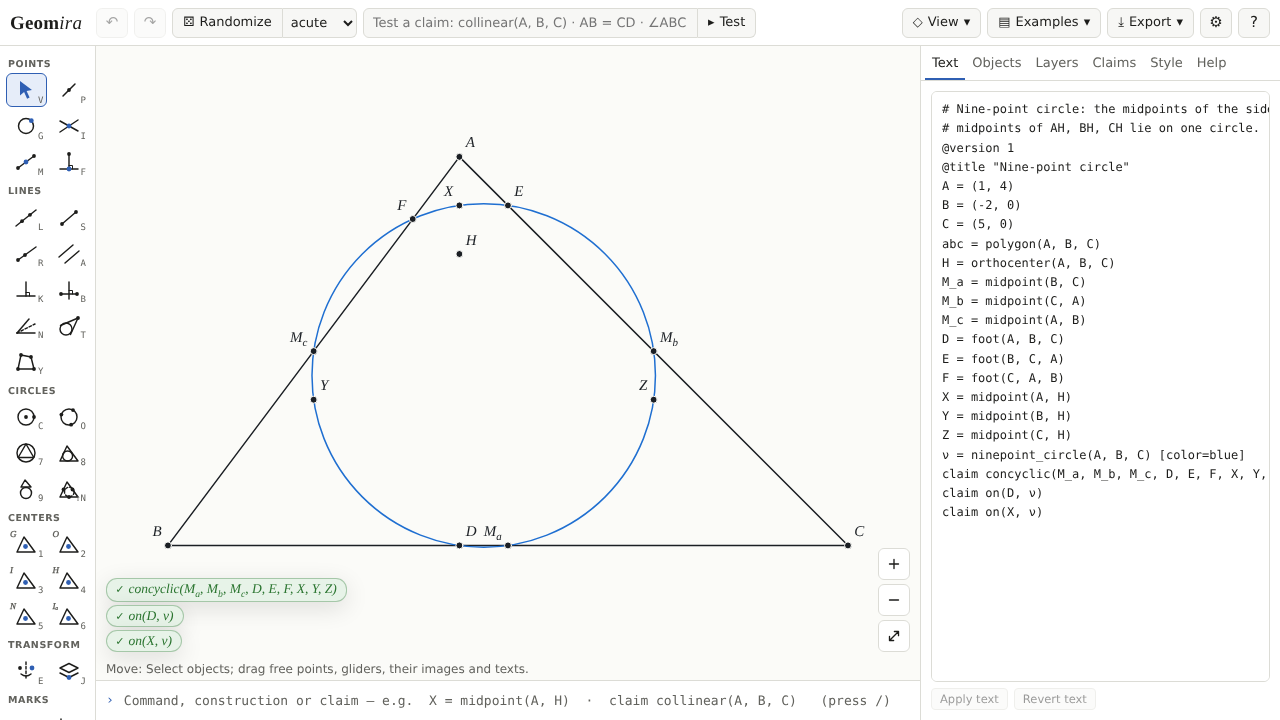
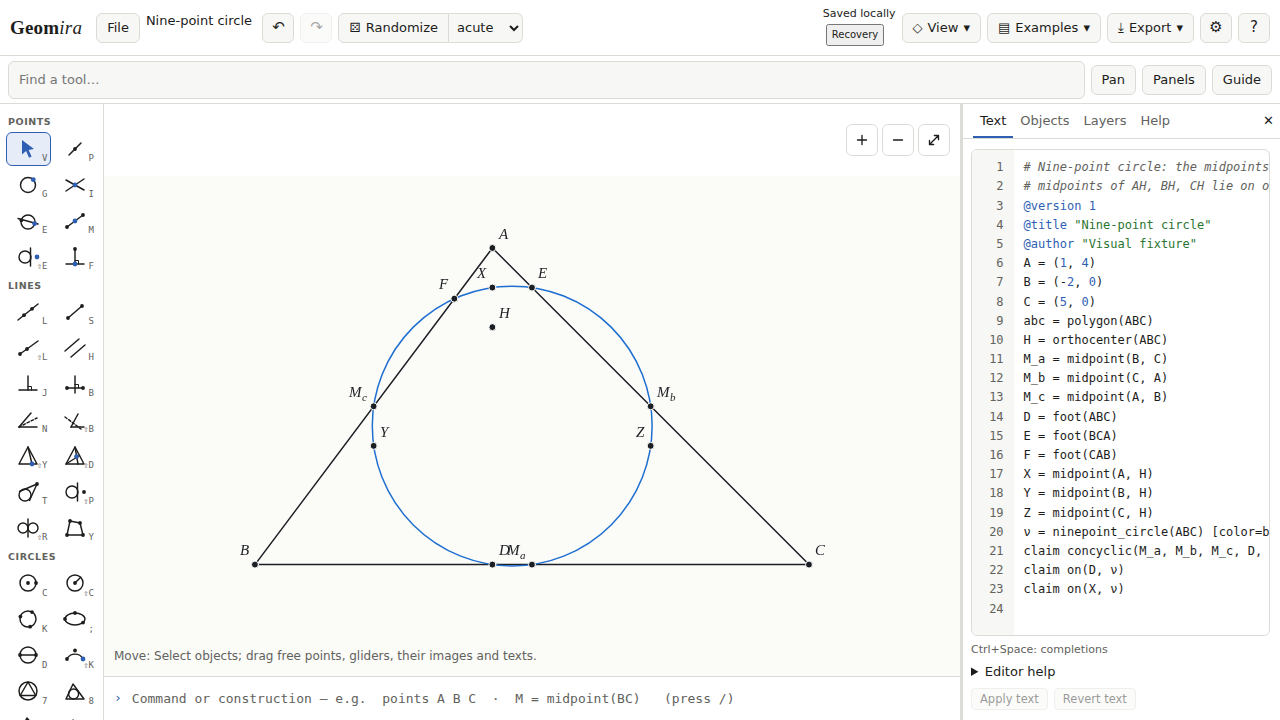
docs: refresh unused shipped screenshot with reviewed public GUI (ADR-0076)

diff --git a/docs/release-prompts/results/11-final.md b/docs/release-prompts/results/11-final.md
@@ -1,11 +1,12 @@
 # Prompt 11 final candidate validation
 
-Status: **pending complete final CI, exact downloaded candidate and independent acceptance**.
-Current candidate: `4040112d55d0d22792b654339fd96e06ed49b056`. The source correction
+Status: **application validation passes at 404; delivered-asset successor and exact final artifact pending**.
+Validated application candidate: `4040112d55d0d22792b654339fd96e06ed49b056`. The source correction
 passes genuine public/internal full-UI drag gates at 6.13/6.19 ms with exact geometry and
 history checks. The original invalid no-drag result and genuine 37.51 ms failure remain
-recorded below. The full final browser matrix and quiet verification remain pending;
-historical results are not treated as this candidate's acceptance.
+recorded below. Its complete CI matrix and quiet verification now pass. Final inspection
+found one unused stale shipped image, corrected separately under ADR-0065/0076; that asset
+successor requires its own validated candidate before publication.
 No production publication, main merge, deployment or release was performed in this phase.
 
 ## Current candidate identity and isolated measurements
@@ -41,9 +42,35 @@ explicitly **8/9**, not described as9/9. Raw annotations, errors and stage count
 `11-404-performance.json`. All measurement browsers and previews were closed before the
 independent reviewer's quiet full verification began.
 
-Required CI verification on404 passed **5,046 tests/553 files**; exports and all five GUI
-comparisons also passed. Complete supported browser CI and exact artifact validation remain
-required, as does the independently run quiet local verification.
+Required CI verification on 404 passed **5,046 tests/553 files**; exports and all five GUI
+comparisons also passed. Quiet independent local `pnpm verify` then exited 0 at the exact
+same source: **5,046/5,046 tests, 553/553 files**, 634.91 seconds in Vitest. Coverage was
+96.45% statements, 90.44% branches, 99.45% functions and 98.33% lines; static gates passed.
+
+## Complete 404 CI and static-asset successor
+
+Push run `43870309470` passed every required verification, web, export and candidate job.
+Public browsers passed **882/882 in 14.6 minutes** and internal browsers **747/747 in
+11.7 minutes**, with zero skipped tests. All supported hosted/file engine projects and
+all 33 screenshot comparisons (25 unique references) passed. Genuine CI full-UI drag app
+medians were **6.57/6.81 ms**; worker maximum **3.1 ms**, workerless maximum **8.4 ms**,
+and 150-object discovery maximum **33.1 ms**, with 3/3,434 tasks over 16 ms. None of those
+retained-engine measurements reported LongTasks. Every original limit was preserved.
+
+GitHub reports tested-web archive `14228723764`, **2,425,706 bytes**, SHA256
[1 lines of base64/hex data omitted]
+artifact `14229062837`. These are the validated 404 artifacts, not the final publication
+candidate: final inspection found an unused stale public screenshot in their contents.
+The manifest has no `screenshots` field, so there is no observed active install-dialog bug.
+
+That low-severity image consistency finding is repaired by copying the exact already-reviewed
+1280×720 public desktop reference to `apps/web/public/screenshots/main-desktop.png`.
+Its 121,162 bytes and SHA256
[1 lines of base64/hex data omitted]
+reference exactly. ADR-0076 records the previous hash and CI provenance; `releases/README.md`
+documents how to refresh this public image with future reviewed GUI changes. No image
+editing, manifest feature, application/test logic or threshold changed. The successor's
+required gates and exact artifact identity remain prerequisites for publication.
 
 ## Historical c540 candidate identity and builds
 
@@ -194,14 +221,12 @@ does **not** measure an edit. Native diagnosis showed a visible P1-dot offset of
 all timing assertions and now verifies the entire document and one-step Undo/Redo.
 Its first actual-drag run passed those document/history assertions but **failed** the
 unchanged 8 ms app median at **37.51 ms** (p95 58.05 ms; raster median 10.03 ms).
-This is an unresolved release performance blocker pending source diagnosis, not a passing
-benchmark or an accepted tolerance change. Original and corrected JSON/logs are retained
-separately as c520 public-performance and public-drag-corrected evidence.
+This was a genuine performance blocker at that source, not a passing benchmark or an
+accepted tolerance change. The settled-source repair now meets the original gate both
+locally and in complete 404 CI, as recorded above. Original and corrected JSON/logs remain
+separate c520 public-performance and public-drag-corrected evidence.
 
-- Compare all 25 references on the final source with the complete required CI matrix;
-  review any new mismatch individually without changing tolerances.
-- Complete isolated original performance checks after normal browser work is idle;
-  record actual measurements and unchanged limits.
-- Integration owner supplies revised-source full verification, required export compilation,
-  complete supported remote browser results and the exact downloaded CI artifact.
+- Build and validate the static-asset successor with the complete required CI matrix;
+  keep all 25 reference comparisons and original performance limits.
+- Verify the exact downloaded successor artifact's source, run, mode, base and checksums.
 - Independent prompt 12 acceptance remains required before publication.

diff --git a/docs/adr/0076-validated-release-artifacts.md b/docs/adr/0076-validated-release-artifacts.md
@@ -170,3 +170,26 @@ recorded CI inputs; per-file paths and hashes are in `11-visual-references.json`
 five reviewed images are copied. Their required full-matrix comparisons are still pending.
 
 No production publication, merge or release was performed while implementing this decision.
+
+## Delivered static image consistency
+
+Final artifact inspection found that the unused shipped
+`apps/web/public/screenshots/main-desktop.png` still depicted retired claim entry, verdict
+chips and the old Style tab. This is a low-severity delivered-asset consistency finding,
+not an observed active install dialog: the current web manifest has no `screenshots` field.
+Under ADR-0065/0076, replace only its exact bytes with the already-reviewed public desktop
+GUI reference, preserving its public path and 1280×720 dimensions. No manifest feature,
+application code or implementation-mirroring test is added.
+
+The old 125,614-byte image SHA256 was
[1 lines of base64/hex data omitted]
+The replacement is the 121,162-byte actual from source
+`c5208237753c033b907bae52c9a949c5ab54c363`, diagnostic run `43865444969`, artifact
+`14225855788`, already committed as
+`public-layout.spec.ts-snapshots/public-workspace-desktop-linux.png`:
[1 lines of base64/hex data omitted]
+It was individually reviewed by the integration owner, independent audit and implement11;
+the reference also passes the complete 404 candidate matrix. A byte comparison and PNG
+header check confirm the copy and dimensions. `releases/README.md` records the maintenance
+source and refresh procedure. The successor must build and validate this corrected asset;
+the earlier 404 archive containing the old image is not the publication candidate.

diff --git a/releases/README.md b/releases/README.md
@@ -33,3 +33,20 @@ compilation for the same source, checks the manifest after download, and uploads
 those tested bytes. Missing, failed, cancelled or unfinished prerequisite jobs cannot
 produce the Pages artifact or enter deployment. Nightly mutation campaigns retain their
 separate main/scheduled policy; they are not silently substituted for release checks.
+
+## Public screenshot maintenance
+
+`apps/web/public/screenshots/main-desktop.png` is a shipped public image. The current
+web manifest has no `screenshots` field; this file is not an active install-dialog preview.
+Keep it consistent with the reviewed public interface when that interface changes. After
+reviewing the native desktop GUI reference under the current release ADR, copy its exact
+bytes, retaining the 1280×720 dimensions and existing public path:
+
+```sh
+cp apps/web/e2e/public-layout.spec.ts-snapshots/public-workspace-desktop-linux.png apps/web/public/screenshots/main-desktop.png
+```
+
+Review the source image and record its source/run/hash provenance. Do not substitute an
+internal-engine screenshot with retired claim controls. The next ordinary candidate build
+includes the copied file in its checksum manifest and required validation; copying it alone
+does not publish a release.
